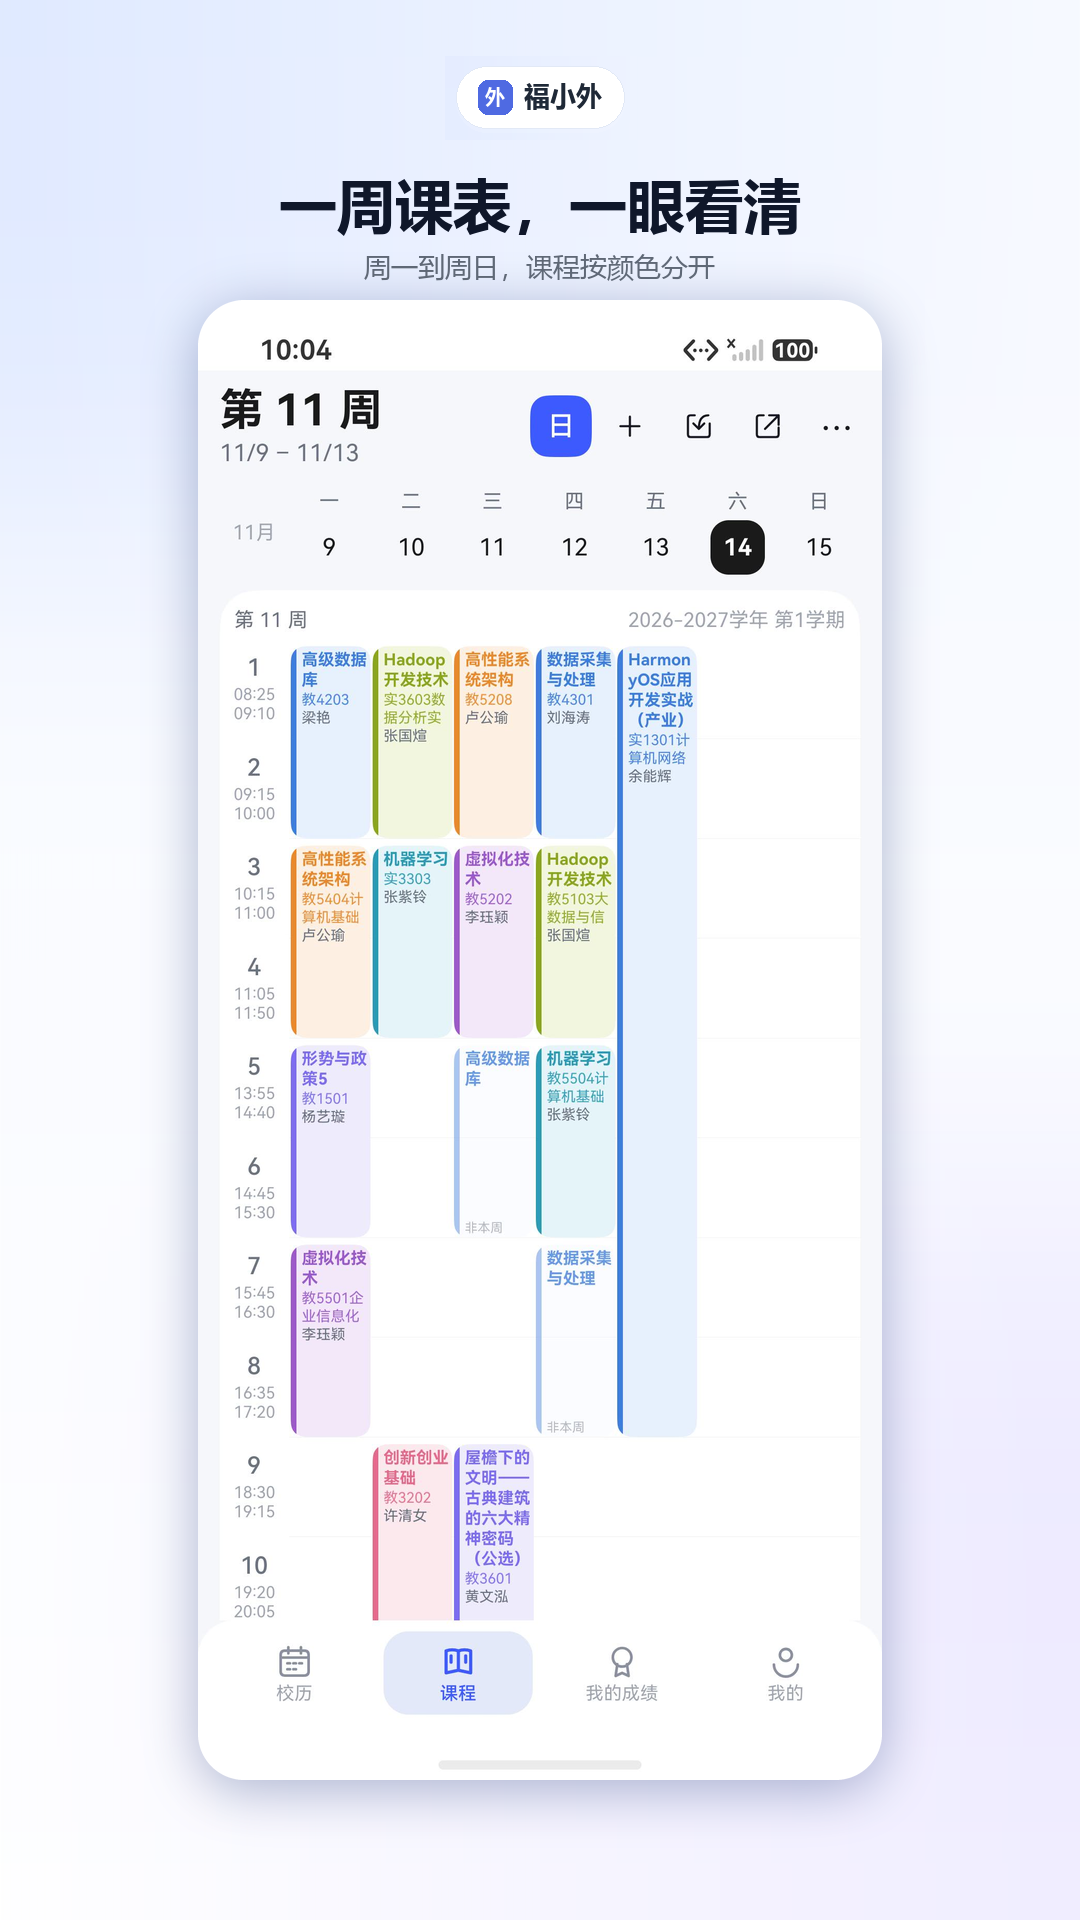
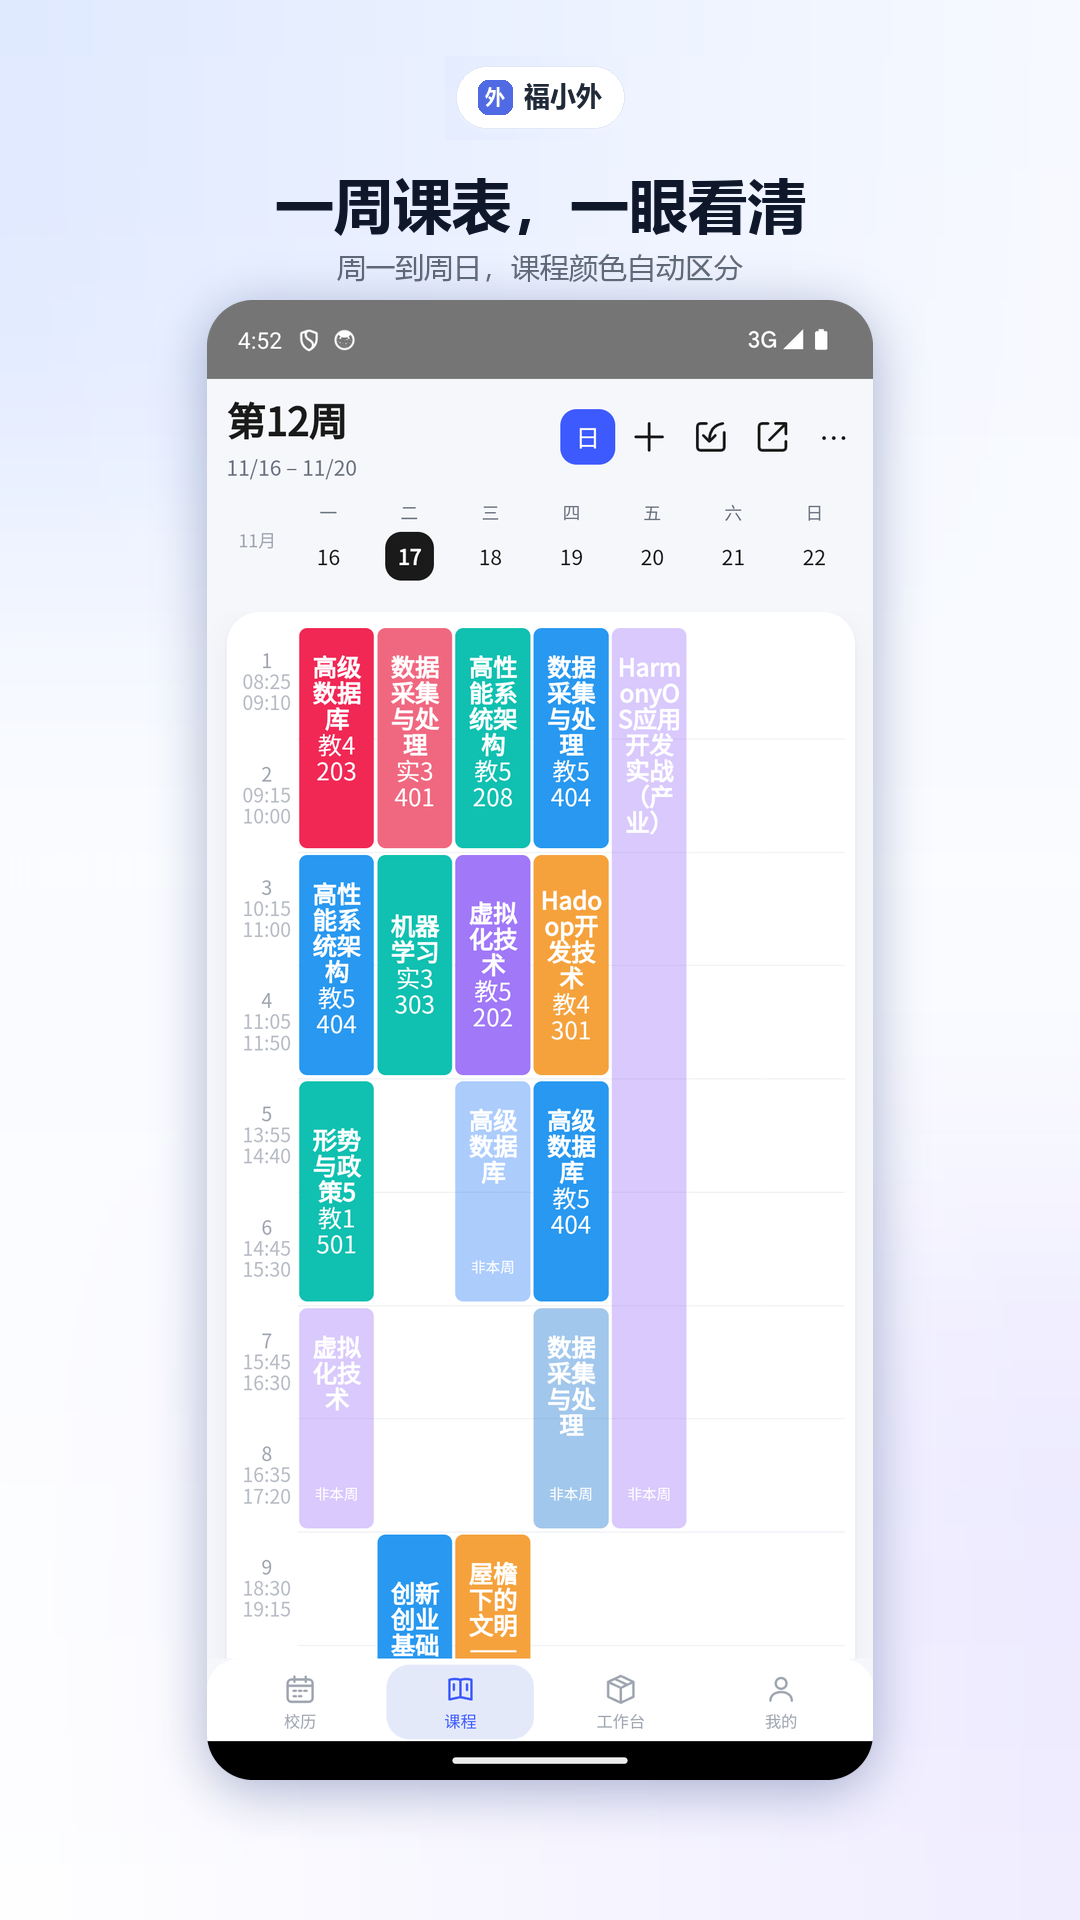
chore: 截图全面替换为 0.1.1 卡片版（1080x1920，含工作台/成绩/校历新界面）
docs/screenshots 换成应用市场卡片版屏幕截图（01-week…10-about），README 与两份发布说明的界面预览表同步改为新页面与文案；旧 10 张深色/旧版截图下线。

Changed region(s): [[0.1833, 0.0938, 0.825, 0.9375], [0.7333, 0.25, 0.7639, 0.3125]]

diff --git a/docs/release-notes/0.1.1.md b/docs/release-notes/0.1.1.md
@@ -52,23 +52,23 @@
 
 <table>
 <tr>
-<td align="center"><img src="https://raw.githubusercontent.com/kmmiku/Fuxiaowai/main/docs/screenshots/01-week.png" width="200"><br><b>周视图</b><br>一屏看全一周</td>
-<td align="center"><img src="https://raw.githubusercontent.com/kmmiku/Fuxiaowai/main/docs/screenshots/02-course.png" width="200"><br><b>课程详情</b><br>点开就是一节课的全部</td>
-<td align="center"><img src="https://raw.githubusercontent.com/kmmiku/Fuxiaowai/main/docs/screenshots/03-add.png" width="200"><br><b>手动添加</b><br>单双周、连堂课</td>
+<td align="center"><img src="https://raw.githubusercontent.com/kmmiku/Fuxiaowai/main/docs/screenshots/01-week.png" width="200"><br><b>一周课表，一眼看清</b><br>周一到周日，课程颜色自动区分</td>
+<td align="center"><img src="https://raw.githubusercontent.com/kmmiku/Fuxiaowai/main/docs/screenshots/02-day.png" width="200"><br><b>今天有什么课</b><br>翻面只剩今天，不用再找</td>
+<td align="center"><img src="https://raw.githubusercontent.com/kmmiku/Fuxiaowai/main/docs/screenshots/03-menu.png" width="200"><br><b>换周、换学期、导入</b><br>菜单里一步到位</td>
 </tr>
 <tr>
-<td align="center"><img src="https://raw.githubusercontent.com/kmmiku/Fuxiaowai/main/docs/screenshots/04-import.png" width="200"><br><b>教务导入</b><br>登录教务一键同步</td>
-<td align="center"><img src="https://raw.githubusercontent.com/kmmiku/Fuxiaowai/main/docs/screenshots/05-share.png" width="200"><br><b>口令分享</b><br>32 位口令互换课表</td>
-<td align="center"><img src="https://raw.githubusercontent.com/kmmiku/Fuxiaowai/main/docs/screenshots/06-calendar.png" width="200"><br><b>校历</b><br>教学周与节假日</td>
+<td align="center"><img src="https://raw.githubusercontent.com/kmmiku/Fuxiaowai/main/docs/screenshots/04-add.png" width="200"><br><b>手动添加课程</b><br>星期、节次、周次随手选</td>
+<td align="center"><img src="https://raw.githubusercontent.com/kmmiku/Fuxiaowai/main/docs/screenshots/05-table.png" width="200"><br><b>多张课表分开管</b><br>长按重命名，删除二次确认</td>
+<td align="center"><img src="https://raw.githubusercontent.com/kmmiku/Fuxiaowai/main/docs/screenshots/06-grade.png" width="200"><br><b>成绩一查就有</b><br>学期一筛，分数与课程代码同屏</td>
 </tr>
 <tr>
-<td align="center"><img src="https://raw.githubusercontent.com/kmmiku/Fuxiaowai/main/docs/screenshots/07-reminder.png" width="200"><br><b>上课提醒</b><br>也可导出到日历</td>
-<td align="center"><img src="https://raw.githubusercontent.com/kmmiku/Fuxiaowai/main/docs/screenshots/08-me.png" width="200"><br><b>我的</b><br>资料与设置</td>
-<td align="center"><img src="https://raw.githubusercontent.com/kmmiku/Fuxiaowai/main/docs/screenshots/09-menu.png" width="200"><br><b>三点菜单</b><br>周数一拖就跳</td>
+<td align="center"><img src="https://raw.githubusercontent.com/kmmiku/Fuxiaowai/main/docs/screenshots/07-share.png" width="200"><br><b>导出到系统日历</b><br>每节课一条日程，也支持口令分享</td>
+<td align="center"><img src="https://raw.githubusercontent.com/kmmiku/Fuxiaowai/main/docs/screenshots/08-calendar.png" width="200"><br><b>校历随时翻</b><br>两学期切换，节假日标出来</td>
+<td align="center"><img src="https://raw.githubusercontent.com/kmmiku/Fuxiaowai/main/docs/screenshots/09-me.png" width="200"><br><b>账号与外观</b><br>深色模式、课表设置都在这里</td>
 </tr>
 <tr>
-<td align="center"><img src="https://raw.githubusercontent.com/kmmiku/Fuxiaowai/main/docs/screenshots/10-dark.png" width="200"><br><b>深色模式</b><br>跟随系统</td>
-<td align="center" colspan="2"><i>应用市场用的 1080×1920 卡片版截图见 <a href="https://github.com/kmmiku/Fuxiaowai/tree/main/android/assets/design/store/screens-cards">android/assets/design/store/screens-cards</a></i></td>
+<td align="center"><img src="https://raw.githubusercontent.com/kmmiku/Fuxiaowai/main/docs/screenshots/10-about.png" width="200"><br><b>该写清楚的都写清楚</b><br>数据来源、收集信息、适用范围</td>
+<td align="center" colspan="2"><i>应用市场用的 1080×1920 卡片版原图见 <a href="https://github.com/kmmiku/Fuxiaowai/tree/main/android/assets/design/store/screens-cards">android/assets/design/store/screens-cards</a></i></td>
 </tr>
 </table>
 

diff --git a/docs/release-notes/0.1.1-android.md b/docs/release-notes/0.1.1-android.md
@@ -48,22 +48,22 @@
 
 <table>
 <tr>
-<td align="center"><img src="https://raw.githubusercontent.com/kmmiku/Fuxiaowai/main/docs/screenshots/01-week.png" width="200"><br><b>周视图</b><br>一屏看全一周</td>
-<td align="center"><img src="https://raw.githubusercontent.com/kmmiku/Fuxiaowai/main/docs/screenshots/02-course.png" width="200"><br><b>课程详情</b><br>点开就是一节课的全部</td>
-<td align="center"><img src="https://raw.githubusercontent.com/kmmiku/Fuxiaowai/main/docs/screenshots/03-add.png" width="200"><br><b>手动添加</b><br>单双周、连堂课</td>
+<td align="center"><img src="https://raw.githubusercontent.com/kmmiku/Fuxiaowai/main/docs/screenshots/01-week.png" width="200"><br><b>一周课表，一眼看清</b><br>周一到周日，课程颜色自动区分</td>
+<td align="center"><img src="https://raw.githubusercontent.com/kmmiku/Fuxiaowai/main/docs/screenshots/02-day.png" width="200"><br><b>今天有什么课</b><br>翻面只剩今天，不用再找</td>
+<td align="center"><img src="https://raw.githubusercontent.com/kmmiku/Fuxiaowai/main/docs/screenshots/03-menu.png" width="200"><br><b>换周、换学期、导入</b><br>菜单里一步到位</td>
 </tr>
 <tr>
-<td align="center"><img src="https://raw.githubusercontent.com/kmmiku/Fuxiaowai/main/docs/screenshots/04-import.png" width="200"><br><b>教务导入</b><br>登录教务一键同步</td>
-<td align="center"><img src="https://raw.githubusercontent.com/kmmiku/Fuxiaowai/main/docs/screenshots/05-share.png" width="200"><br><b>口令分享</b><br>32 位口令互换课表</td>
-<td align="center"><img src="https://raw.githubusercontent.com/kmmiku/Fuxiaowai/main/docs/screenshots/06-calendar.png" width="200"><br><b>校历</b><br>教学周与节假日</td>
+<td align="center"><img src="https://raw.githubusercontent.com/kmmiku/Fuxiaowai/main/docs/screenshots/04-add.png" width="200"><br><b>手动添加课程</b><br>星期、节次、周次随手选</td>
+<td align="center"><img src="https://raw.githubusercontent.com/kmmiku/Fuxiaowai/main/docs/screenshots/05-table.png" width="200"><br><b>多张课表分开管</b><br>长按重命名，删除二次确认</td>
+<td align="center"><img src="https://raw.githubusercontent.com/kmmiku/Fuxiaowai/main/docs/screenshots/06-grade.png" width="200"><br><b>成绩一查就有</b><br>学期一筛，分数与课程代码同屏</td>
 </tr>
 <tr>
-<td align="center"><img src="https://raw.githubusercontent.com/kmmiku/Fuxiaowai/main/docs/screenshots/07-reminder.png" width="200"><br><b>上课提醒</b><br>也可导出到日历</td>
-<td align="center"><img src="https://raw.githubusercontent.com/kmmiku/Fuxiaowai/main/docs/screenshots/08-me.png" width="200"><br><b>我的</b><br>资料与设置</td>
-<td align="center"><img src="https://raw.githubusercontent.com/kmmiku/Fuxiaowai/main/docs/screenshots/09-menu.png" width="200"><br><b>三点菜单</b><br>周数一拖就跳</td>
+<td align="center"><img src="https://raw.githubusercontent.com/kmmiku/Fuxiaowai/main/docs/screenshots/07-share.png" width="200"><br><b>导出到系统日历</b><br>每节课一条日程，也支持口令分享</td>
+<td align="center"><img src="https://raw.githubusercontent.com/kmmiku/Fuxiaowai/main/docs/screenshots/08-calendar.png" width="200"><br><b>校历随时翻</b><br>两学期切换，节假日标出来</td>
+<td align="center"><img src="https://raw.githubusercontent.com/kmmiku/Fuxiaowai/main/docs/screenshots/09-me.png" width="200"><br><b>账号与外观</b><br>深色模式、课表设置都在这里</td>
 </tr>
 <tr>
-<td align="center"><img src="https://raw.githubusercontent.com/kmmiku/Fuxiaowai/main/docs/screenshots/10-dark.png" width="200"><br><b>深色模式</b><br>跟随系统</td>
+<td align="center"><img src="https://raw.githubusercontent.com/kmmiku/Fuxiaowai/main/docs/screenshots/10-about.png" width="200"><br><b>该写清楚的都写清楚</b><br>数据来源、收集信息、适用范围</td>
 <td align="center" colspan="2"><i>安卓版逐页对齐过程见 <a href="https://github.com/kmmiku/Fuxiaowai/tree/main/android/Map">android/Map</a></i></td>
 </tr>
 </table>

diff --git a/README.md b/README.md
@@ -56,23 +56,23 @@
 
 <table>
 <tr>
-<td align="center"><img src="docs/screenshots/01-week.png" width="210"><br><b>周视图</b><br>一屏看全一周</td>
-<td align="center"><img src="docs/screenshots/02-course.png" width="210"><br><b>课程详情</b><br>周次/时间/地点/教师</td>
-<td align="center"><img src="docs/screenshots/03-add.png" width="210"><br><b>手动添加</b><br>单双周、连堂课</td>
+<td align="center"><img src="docs/screenshots/01-week.png" width="210"><br><b>一周课表，一眼看清</b><br>周一到周日，课程颜色自动区分</td>
+<td align="center"><img src="docs/screenshots/02-day.png" width="210"><br><b>今天有什么课</b><br>翻面只剩今天，不用再找</td>
+<td align="center"><img src="docs/screenshots/03-menu.png" width="210"><br><b>换周、换学期、导入</b><br>菜单里一步到位</td>
 </tr>
 <tr>
-<td align="center"><img src="docs/screenshots/04-import.png" width="210"><br><b>教务导入</b><br>登录教务系统同步</td>
-<td align="center"><img src="docs/screenshots/05-share.png" width="210"><br><b>口令分享</b><br>32 位口令互换课表</td>
-<td align="center"><img src="docs/screenshots/06-calendar.png" width="210"><br><b>校历</b><br>教学周与节假日</td>
+<td align="center"><img src="docs/screenshots/04-add.png" width="210"><br><b>手动添加课程</b><br>星期、节次、周次随手选</td>
+<td align="center"><img src="docs/screenshots/05-table.png" width="210"><br><b>多张课表分开管</b><br>长按重命名，删除二次确认</td>
+<td align="center"><img src="docs/screenshots/06-grade.png" width="210"><br><b>成绩一查就有</b><br>学期一筛，分数与课程代码同屏</td>
 </tr>
 <tr>
-<td align="center"><img src="docs/screenshots/07-reminder.png" width="210"><br><b>上课提醒</b><br>可导出到系统日历</td>
-<td align="center"><img src="docs/screenshots/08-me.png" width="210"><br><b>我的</b><br>资料与设置</td>
-<td align="center"><img src="docs/screenshots/09-menu.png" width="210"><br><b>三点菜单</b><br>周数滑块 + 八入口</td>
+<td align="center"><img src="docs/screenshots/07-share.png" width="210"><br><b>导出到系统日历</b><br>每节课一条日程，也支持口令分享</td>
+<td align="center"><img src="docs/screenshots/08-calendar.png" width="210"><br><b>校历随时翻</b><br>两学期切换，节假日标出来</td>
+<td align="center"><img src="docs/screenshots/09-me.png" width="210"><br><b>账号与外观</b><br>深色模式、课表设置都在这里</td>
 </tr>
 <tr>
-<td align="center"><img src="docs/screenshots/10-dark.png" width="210"><br><b>深色模式</b><br>跟随系统</td>
-<td align="center" colspan="2"><i>应用市场用的卡片版截图（1080×1920）见 <a href="android/assets/design/store/screens-cards">android/assets/design/store/screens-cards</a>，原尺寸截图（1080×2400）见 <a href="android/assets/design/store/screens">android/assets/design/store/screens</a>，1024 应用图标见 <a href="harmonyos/assets/design/store">harmonyos/assets/design/store</a></i></td>
+<td align="center"><img src="docs/screenshots/10-about.png" width="210"><br><b>该写清楚的都写清楚</b><br>数据来源、收集信息、适用范围</td>
+<td align="center" colspan="2"><i>应用市场卡片版截图原图见 <a href="android/assets/design/store/screens-cards">android/assets/design/store/screens-cards</a>，1080×2400 真机全尺寸帧见 <a href="android/assets/design/store/screens">android/assets/design/store/screens</a></i></td>
 </tr>
 </table>
 
